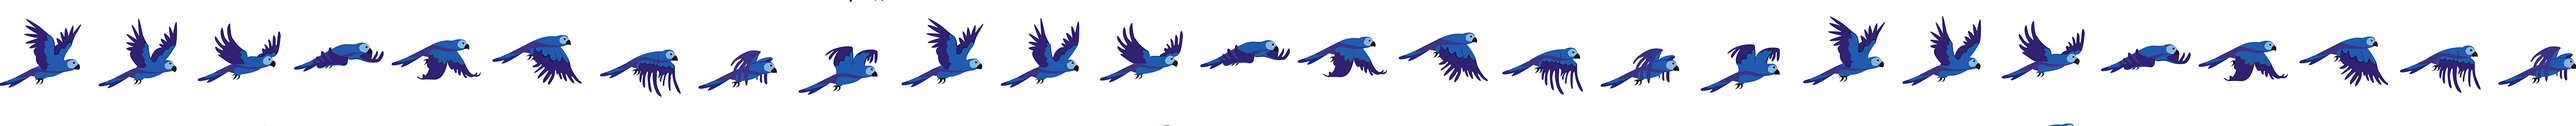
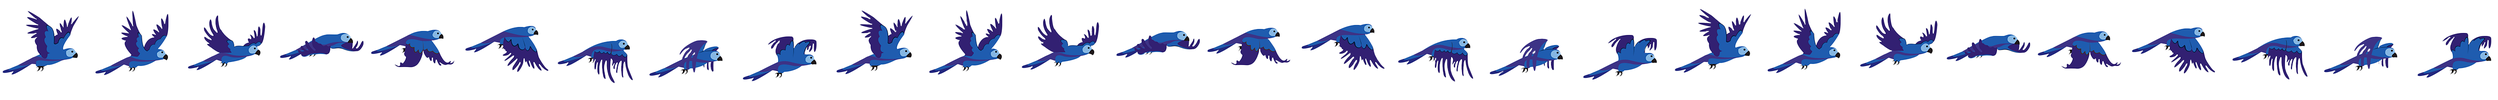
hyppykokeilu koodis

Changed region(s): [[0.0, 0.15, 1.0, 0.81], [0.7797, 0.99, 0.8109, 1.0]]

diff --git a/Tertun kokeilut/hyppy kokeilut/index.html b/Tertun kokeilut/hyppy kokeilut/index.html
@@ -1,0 +1,139 @@
+<!DOCTYPE html>
+<html lang="en">
+<head>
+    <meta charset="UTF-8">
+    <meta name="viewport" content="width=device-width, initial-scale=1.0">
+    <title>Hyppypeli</title>
+    <style>
+        body {
+            margin: 0;
+            overflow: hidden;
+        }
+
+        #gameCanvas {
+            background-color: aqua;
+        }
+    </style>
+</head>
+<body>
+    <canvas id="gameCanvas"></canvas>
+
+    <script>
+        const canvas = document.getElementById("gameCanvas");
+        const context = canvas.getContext("2d");
+
+        // Asetetaan canvas-koon
+        canvas.width = 567;
+        canvas.height = 567;
+
+        const characterImg = new Image();
+        characterImg.src = 'char.png';
+
+        const fenceImg = new Image();
+        fenceImg.src = 'aita-80.png';
+
+        const character = {
+            x: 50,
+            y: canvas.height - 90,
+            width: 80,
+            height: 80,
+            color: "blue",
+            jumping: false,
+            jumpHeight: 100,
+            jumpCount: 0
+        };
+
+        const fence = {
+            x: 0,
+            y: canvas.height - 30,
+            width: canvas.width,
+            height: 40,
+            color: "brown"
+        };
+
+        const aita = {
+            aidat: [
+                { x: 50, korkeus: 60 },
+                { x: 150, korkeus: 60 },
+                // Lisää tarvittaessa muita aitaelementtejä
+            ],
+            leveys: 100, // Aidan leveys
+            korkeus: 100,  // Aidan korkeus
+            nopeus: 2 // Aidan liikkumisnopeus
+        };
+
+        let characterBehindFence = false;
+         
+        function drawCharacter() {
+            //context.fillStyle = character.color;
+            //context.fillRect(character.x, character.y, character.width, character.height);
+            context.drawImage(characterImg, character.x, character.y, character.width, character.height);
+        }
+
+        function drawFence() {
+            // context.fillStyle = fence.color;
+            //context.fillRect(fence.x, fence.y, fence.width, fence.height);
+            for (let i = 0; i < aita.aidat.length; i++) {
+                context.drawImage(fenceImg, aita.aidat[i].x, canvas.height - aita.aidat[i].korkeus - 20, aita.leveys, aita.aidat[i].korkeus);
+            }
+        }
+
+        function drawGame() {
+            context.clearRect(0, 0, canvas.width, canvas.height);
+
+            // Liikuta aitaa oikealta vasemmalle
+            for (let i = 0; i < aita.aidat.length; i++) {
+                aita.aidat[i].x -= aita.nopeus;
+
+                // Tarkista, onko aitaelementti kokonaan näytön vasemman reunan ulkopuolella
+                if (aita.aidat[i].x + aita.leveys <= 0) {
+                    // Aseta aitaelementti takaisin näytön oikeaan reunaan
+                    aita.aidat[i].x = canvas.width;
+                }
+            }
+
+            // Piirretään ensin aita
+            drawFence();
+
+            // Päivitä hahmon sijaintia
+            if (character.jumping) {
+                character.y -= 5;
+                character.jumpCount += 5;
+
+                if (character.jumpCount >= character.jumpHeight) {
+                    character.jumping = false;
+                    character.jumpCount = 0;
+
+                    // Kun hyppy päättyy, päätetään onko hahmo aidan takana vai edessä
+                    characterBehindFence = !characterBehindFence;
+                }
+            } else if (character.y < canvas.height - character.height) {
+                character.y += 5;
+            }
+
+            // Piirretään sitten hahmo aidan takana tai edessä
+            if (characterBehindFence) {
+                drawFence();  // Piirretään ensin aita
+                drawCharacter();  // Piirretään sitten hahmo
+            } else {
+                drawCharacter();  // Piirretään ensin hahmo
+                drawFence();  // Piirretään sitten aita
+            }
+        }
+
+        function jump() {
+            if (!character.jumping && character.y === canvas.height - character.height) {
+                character.jumping = true;
+            }
+        }
+
+        document.addEventListener("keydown", (event) => {
+            if (event.key === " ") {
+                jump();
+            }
+        });
+
+        setInterval(drawGame, 1000 / 60);
+    </script>
+</body>
+</html>

diff --git a/Tertun kokeilut/skriptit.js b/Tertun kokeilut/skriptit.js
@@ -8,7 +8,7 @@ const puuImg = new Image();
 puuImg.src = 'puut.png';
 
 const lintuImg = new Image();
-lintuImg.src = 'linnunlento3.png';
+lintuImg.src = 'linnunlento.png';
 
 const painovoima = 1;
 

diff --git a/Tertun kokeilut/hyppy kokeilut/style.css b/Tertun kokeilut/hyppy kokeilut/style.css
@@ -1,0 +1,3 @@
+#gameCanvas {
+    background-color: aquamarine;
+}
